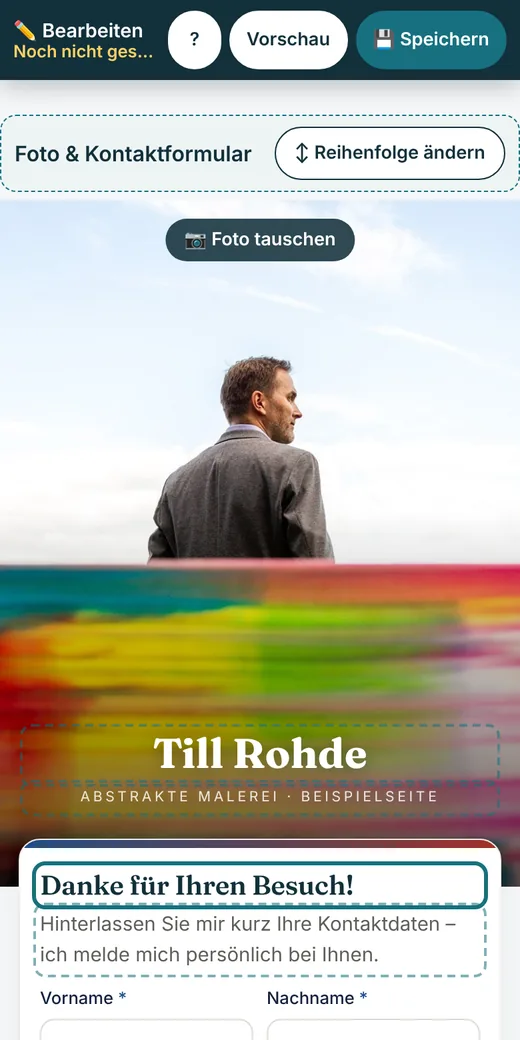
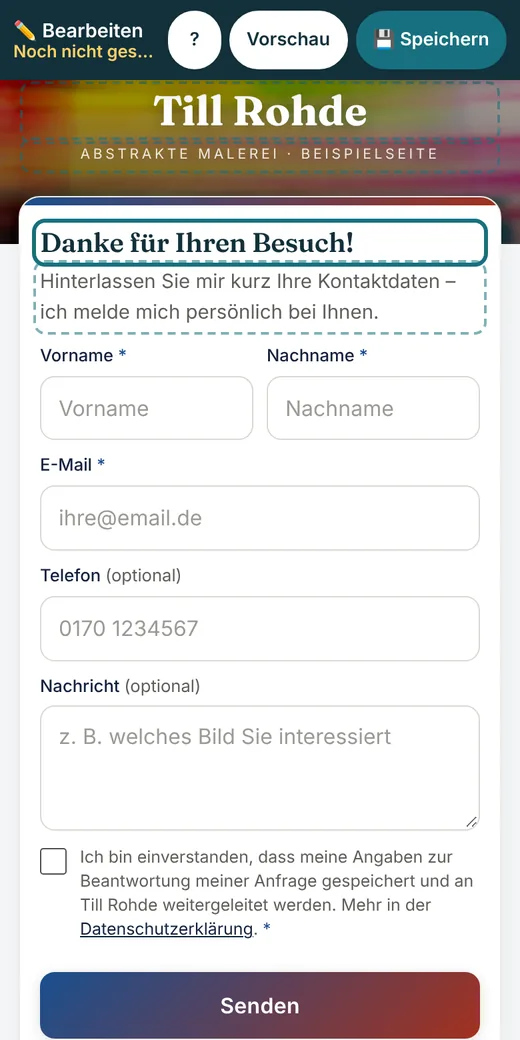
Selbst-ändern-Abschnitt kürzer (Wischleiste am Handy), neues Bild Text antippen

diff --git a/index.html b/index.html
@@ -152,7 +152,7 @@
   <!-- Selbst ändern (Bearbeiten-Modus) -->
   <section aria-labelledby="h-selbst">
     <h2 id="h-selbst">Ihre Seite ändern Sie jederzeit selbst</h2>
-    <p class="selbst-lead">Neues Bild gemalt? Neue Ausstellung? Sie öffnen Ihre Seite, tippen auf das, was Sie ändern möchten, und speichern. Ganz ohne Technik-Kenntnisse, am Handy oder am Computer.</p>
+    <p class="selbst-lead">Neues Bild gemalt? Neue Ausstellung? Antippen, ändern, speichern. Ganz ohne Technik-Kenntnisse.</p>
     <ol class="selbst">
       <li>
         <img src="edit-text.webp" width="520" height="1040" loading="lazy" alt="Bearbeiten-Ansicht am Handy: Die Überschrift wurde angetippt und neu geschrieben">
@@ -171,6 +171,7 @@
         <p><strong>Speichern</strong>, und alles ist online</p>
       </li>
     </ol>
+    <p class="selbst-wisch" aria-hidden="true">← Zur Seite wischen für mehr →</p>
     <div class="selbst-demo">
       <p><strong>Probieren Sie es selbst aus:</strong> Auf unserer Beispielseite können Sie alles ändern. Es wird nichts gespeichert.</p>
       <a class="btn btn-dark" href="https://kontaktseite.github.io/beispiel/ausprobieren.html" target="_blank" rel="noopener noreferrer">Bearbeiten ausprobieren <span aria-hidden="true">›</span><span class="sr-only"> (öffnet in neuem Fenster)</span></a>
@@ -185,7 +186,6 @@
       <li><svg viewBox="0 0 24 24" aria-hidden="true"><path d="M4 12.5l5 5L20 6.5" fill="none" stroke="currentColor" stroke-width="3" stroke-linecap="round" stroke-linejoin="round"/></svg><span><strong>Interessenten bleiben in Kontakt:</strong> Wer sich einträgt, geht nicht mehr verloren. Sie können ihn später einladen.</span></li>
       <li><svg viewBox="0 0 24 24" aria-hidden="true"><path d="M4 12.5l5 5L20 6.5" fill="none" stroke="currentColor" stroke-width="3" stroke-linecap="round" stroke-linejoin="round"/></svg><span><strong>Kein Aufwand für Sie:</strong> Die Kontakte kommen von allein per E-Mail.</span></li>
       <li><svg viewBox="0 0 24 24" aria-hidden="true"><path d="M4 12.5l5 5L20 6.5" fill="none" stroke="currentColor" stroke-width="3" stroke-linecap="round" stroke-linejoin="round"/></svg><span><strong>Mehr Sichtbarkeit:</strong> Links zu Ihrem Instagram und Ihrer Website, damit Interessierte Ihnen folgen können.</span></li>
-      <li><svg viewBox="0 0 24 24" aria-hidden="true"><path d="M4 12.5l5 5L20 6.5" fill="none" stroke="currentColor" stroke-width="3" stroke-linecap="round" stroke-linejoin="round"/></svg><span><strong>Immer aktuell:</strong> Texte, Fotos und Werke ändern Sie jederzeit selbst, ohne uns fragen zu müssen.</span></li>
     </ul>
   </section>
 

diff --git a/style.css b/style.css
@@ -831,3 +831,21 @@ header .question span { background: linear-gradient(transparent 55%, #bfe6f0 55%
   .selbst-demo { grid-template-columns: 1fr auto; align-items: center; }
   .selbst-demo .btn { width: auto; }
 }
+
+/* Handy: Bilder als Wischleiste, damit die Seite kürzer bleibt */
+@media (max-width: 639px) {
+  .selbst {
+    grid-template-columns: none;
+    grid-auto-flow: column;
+    grid-auto-columns: 46%;
+    overflow-x: auto;
+    scroll-snap-type: x mandatory;
+    -webkit-overflow-scrolling: touch;
+    gap: .6rem;
+  }
+  .selbst li { scroll-snap-align: start; }
+  .selbst img { aspect-ratio: 9 / 14; }
+  .selbst p { font-size: .9rem; }
+}
+.selbst-wisch { color: var(--muted); font-size: .85rem; margin: .4rem 0 0; }
+@media (min-width: 640px) { .selbst-wisch { display: none; } }
